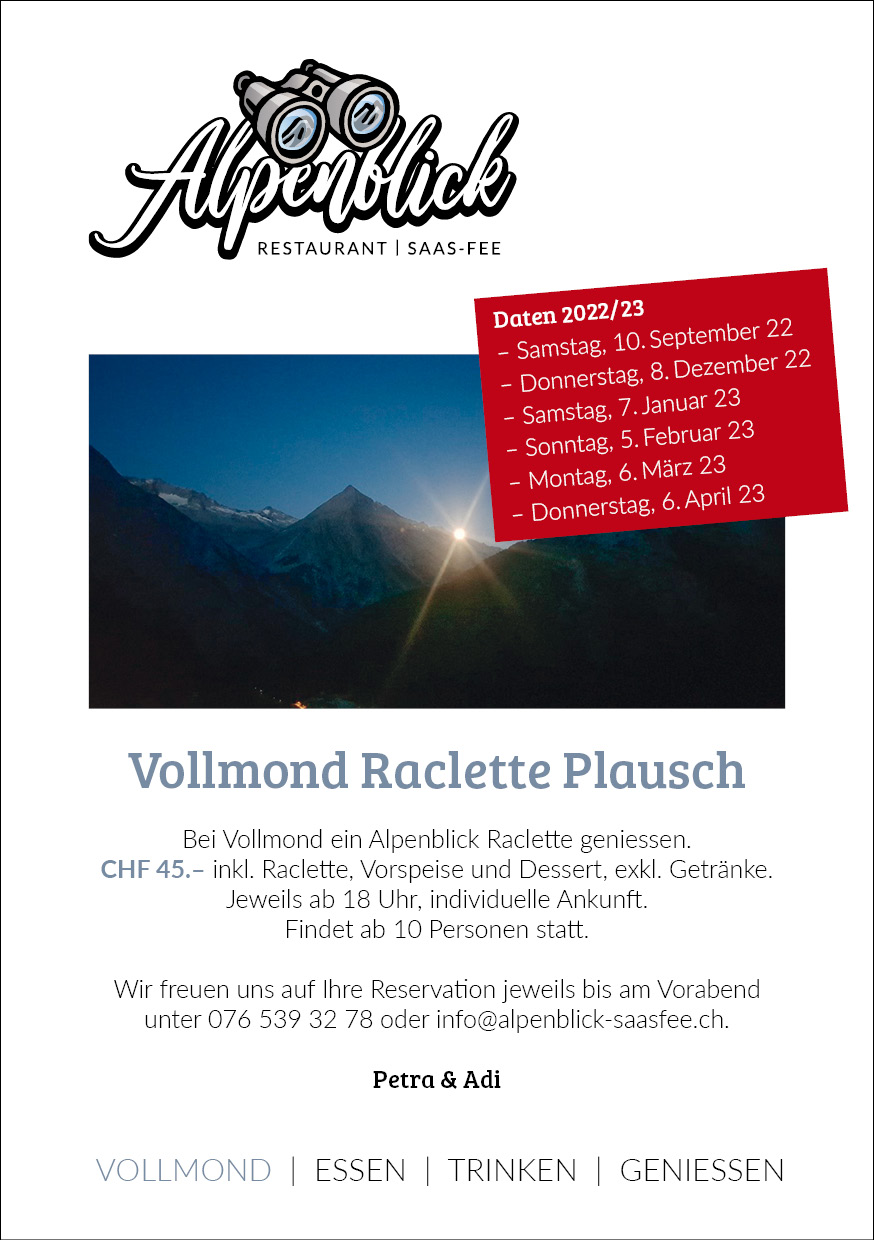
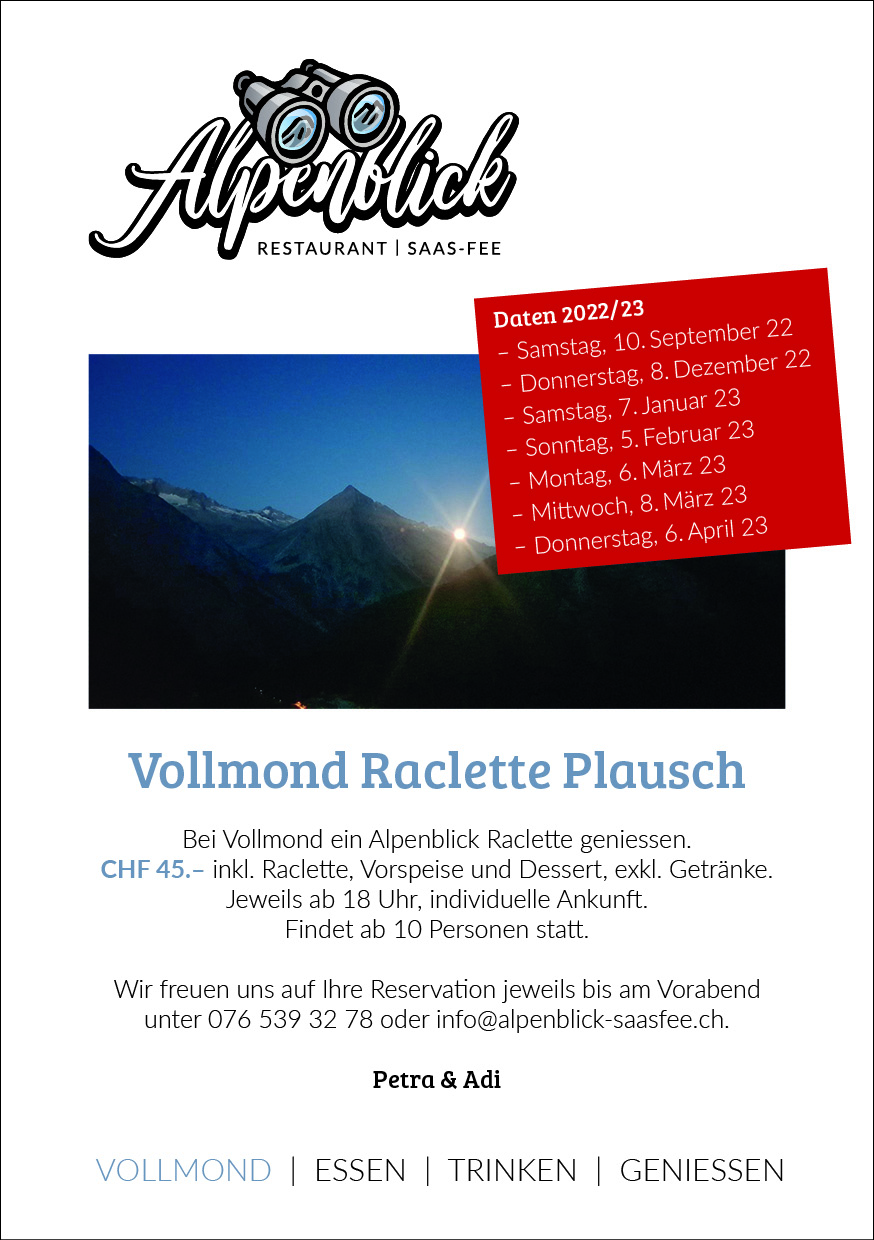
update homepage vollmond raclette

diff --git a/content/_index.md b/content/_index.md
@@ -82,9 +82,8 @@ Unser kleines, aber feines <a href="images/Alpenblick_Flyer_Uebernachten_2022.jp
 
 ## Aktuelle Anlässe
 * Jeden Freitag: <a href="images/Alpenblick_Flyer_Freitag_Abend_Menu_2020.jpg" target="_blank"> Freitag Abend Überraschungsmenu</a>
-* Samstag, 07. Januar 2023: <a href="images/Alpenblick_Flyer_Vollmond_Raclette_Plausch.jpg" target="_blank"> Vollmond Raclette Plausch</a>
-* Sonntag, 05. Februar 2023: <a href="images/Alpenblick_Flyer_Vollmond_Raclette_Plausch.jpg" target="_blank"> Vollmond Raclette Plausch</a>
 * Montag, 06. März 2023: <a href="images/Alpenblick_Flyer_Vollmond_Raclette_Plausch.jpg" target="_blank"> Vollmond Raclette Plausch</a>
+* **ZUSÄTZLICH:** Mittwoch, 08. März 2023: <a href="images/Alpenblick_Flyer_Vollmond_Raclette_Plausch.jpg" target="_blank"> Vollmond Raclette Plausch</a>
 * Donnerstag, 06. April 2023: <a href="images/Alpenblick_Flyer_Vollmond_Raclette_Plausch.jpg" target="_blank"> Vollmond Raclette Plausch</a>
 * Samstag, 24. Dezember 2022: <a href="images/Alpenblick_Flyer_Weihnachtsmenu.jpg" target="_blank"> Weihnachtsmenu</a>
 * Sonntag, 25. Dezember 2022: <a href="images/Alpenblick_Flyer_Christmas_Fondue.jpg" target="_blank"> Christmas Fondue</a>
